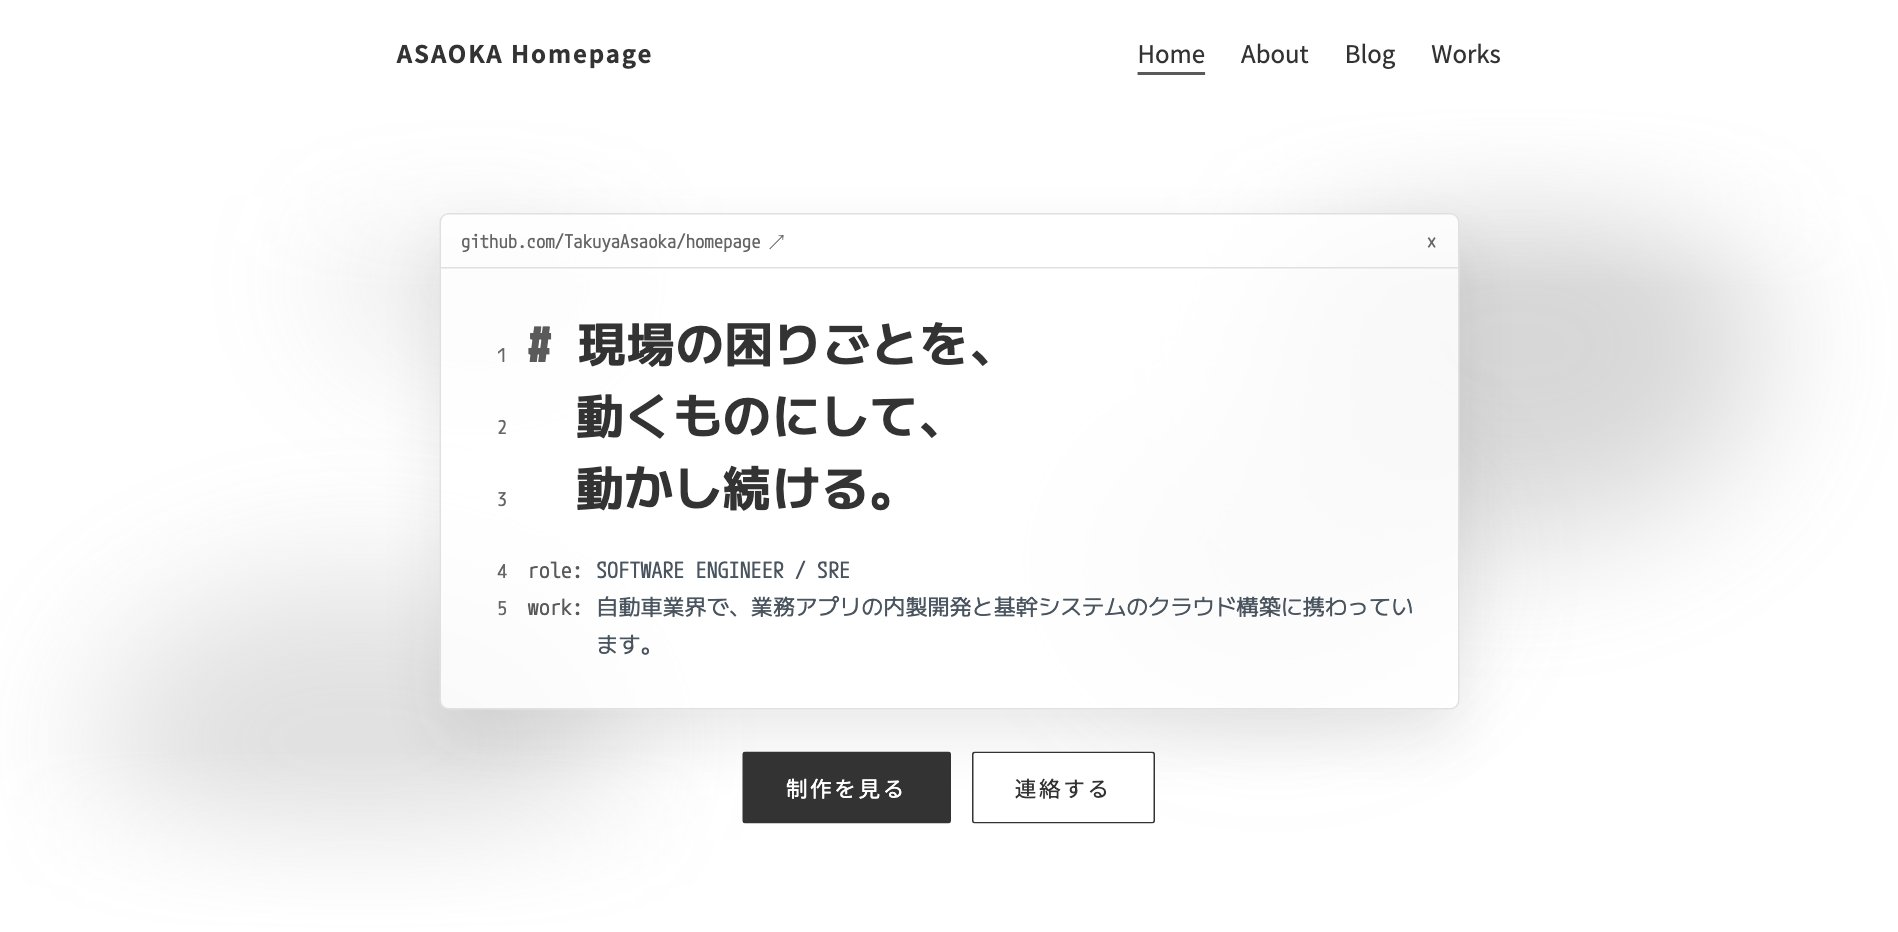
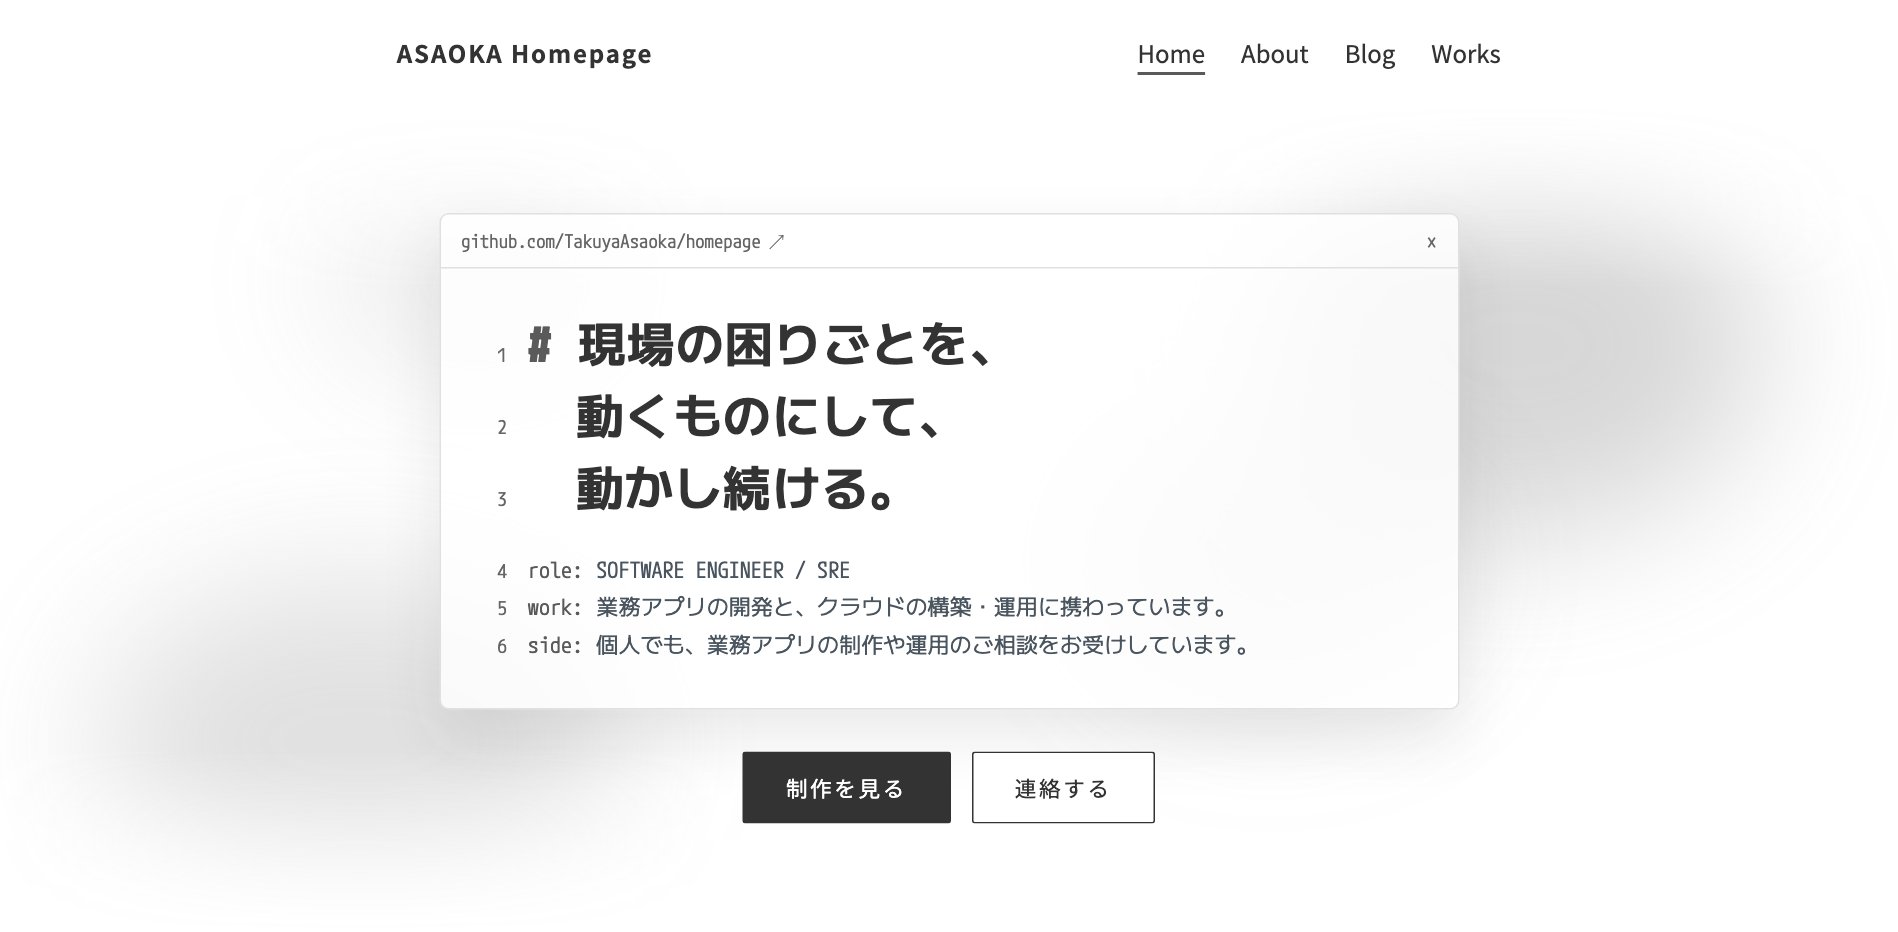
[design] 仕事の説明をぼやかし、副業の行を足す
work: の文から業種と道具の名前を外した。side: の行は書いたときだけ出る（CMSの「副業」の欄）。制作の画像も撮り直した。

Claude-Session: https://claude.ai/code/session_017oarFQobeNqWuVcuCiYMJ6

Changed region(s): [[0.2798, 0.6223, 0.715, 0.7157]]

diff --git a/src/content.config.ts b/src/content.config.ts
@@ -50,6 +50,8 @@ const home = defineCollection({
         // 一番大きい見出し。改行した位置でそのまま行を分ける
         heading: z.string(),
         lead: z.string(),
+        // 副業のひとこと。窓の「side:」の行に出す。書かなければ行ごと出さない
+        side: optionalText,
       }),
       profile: z.object({
         photo: optionalImage(image),
